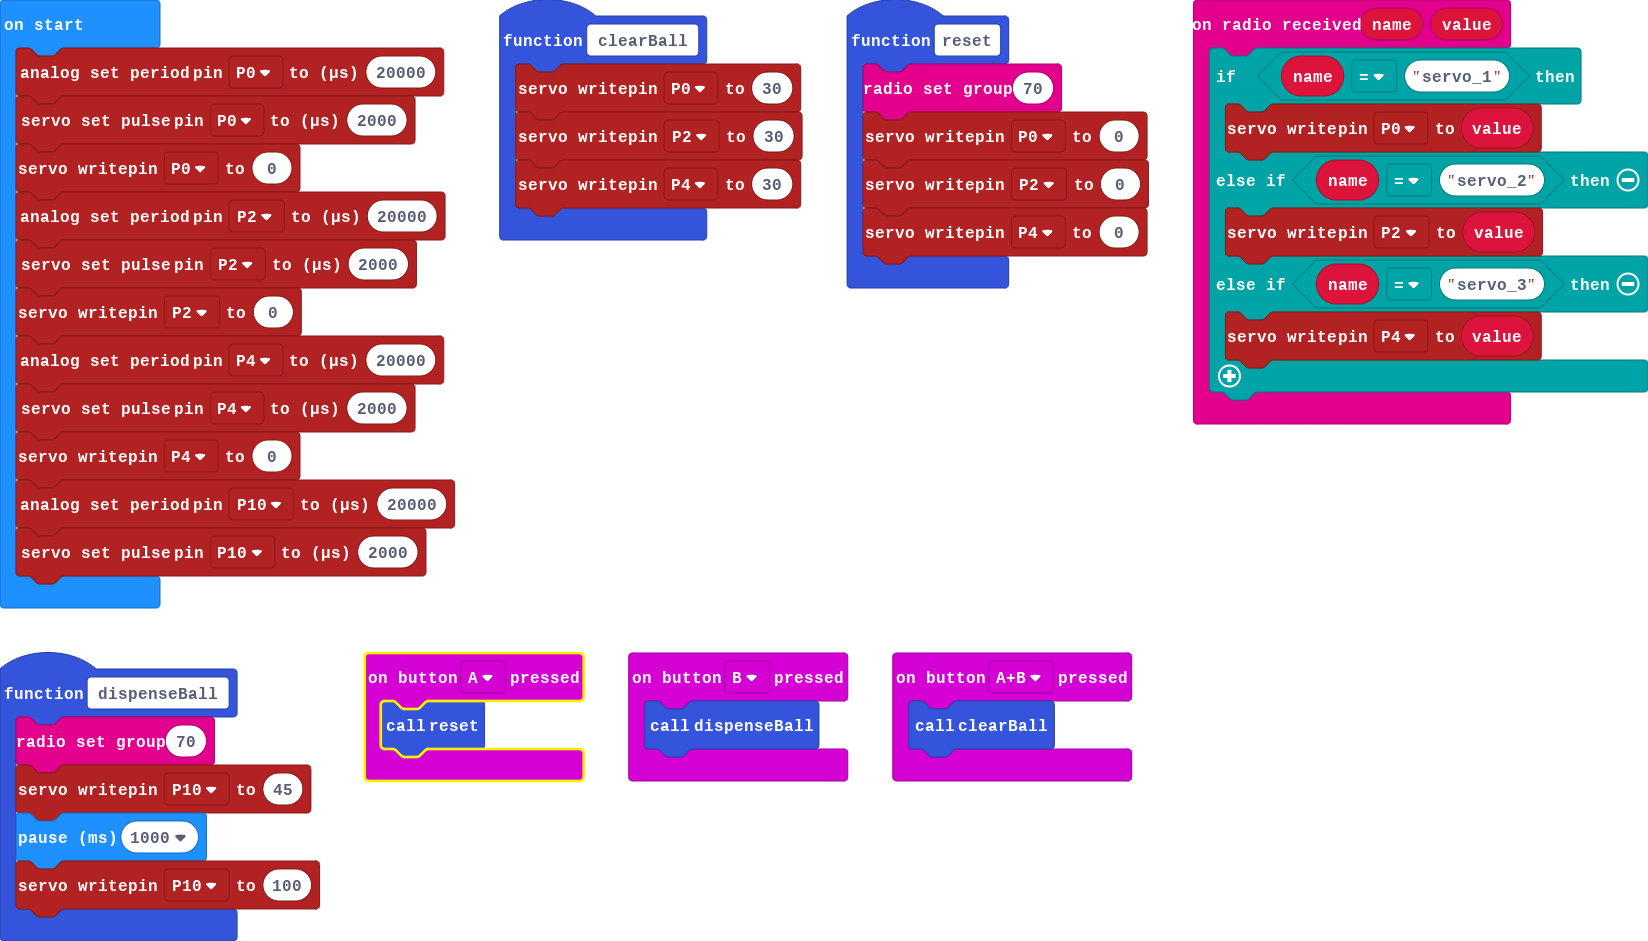
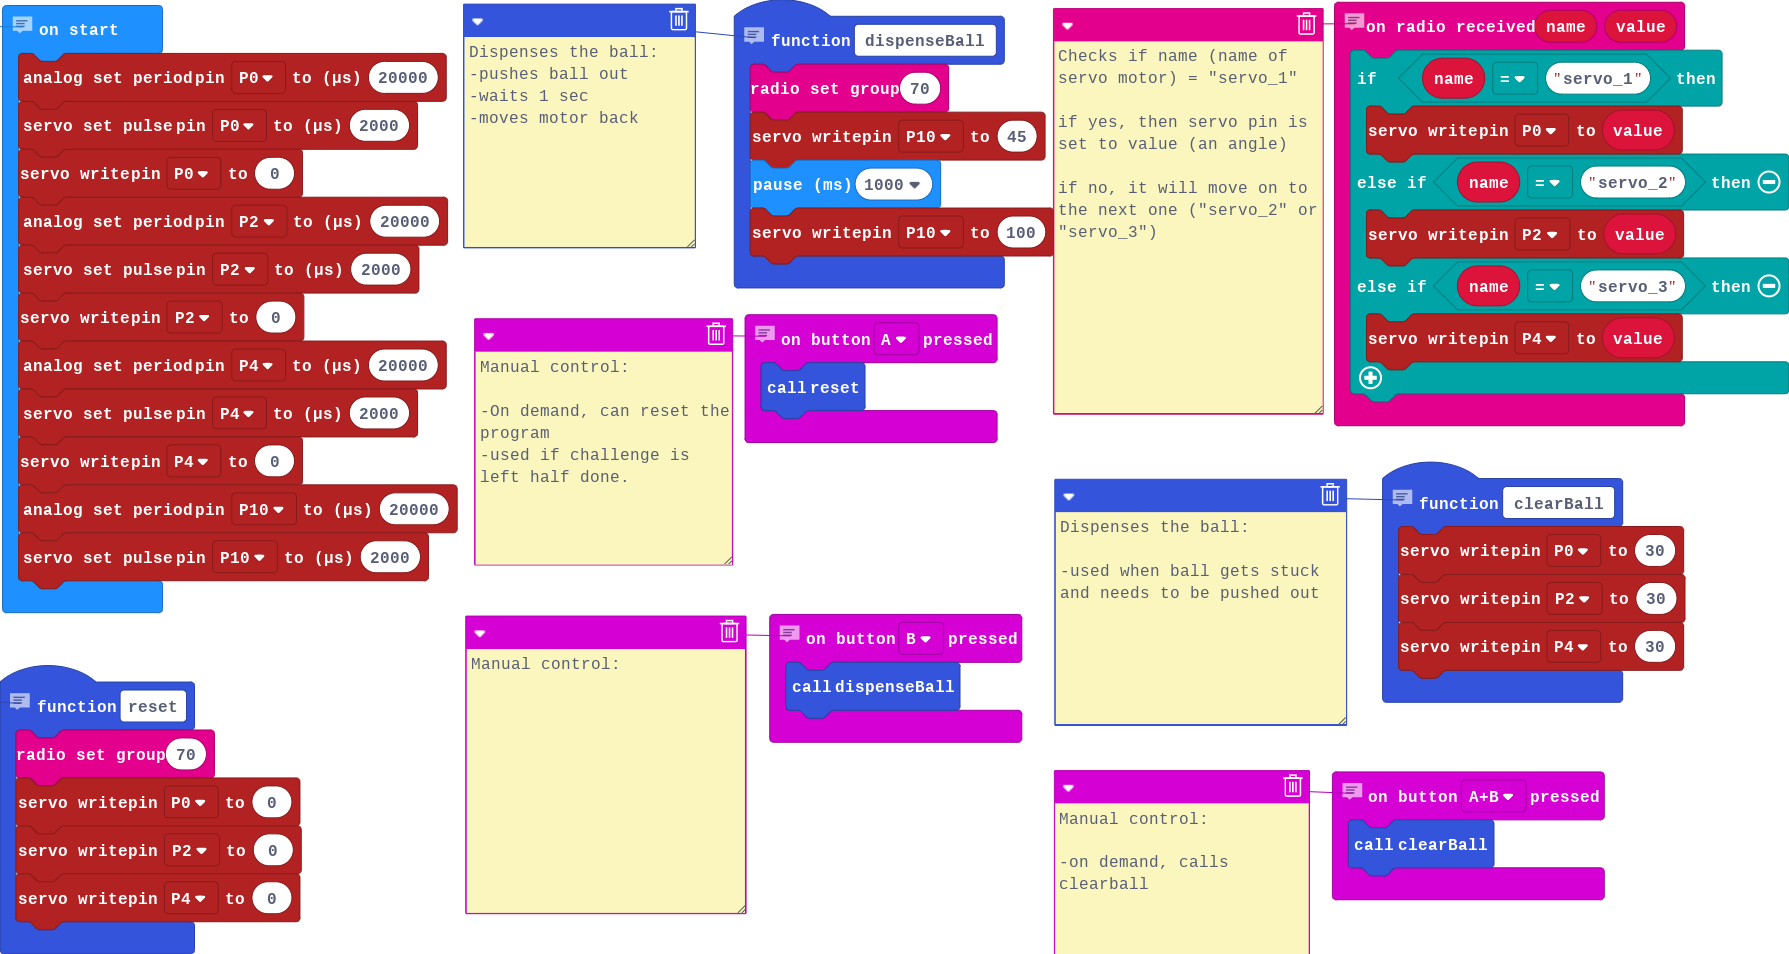
final with comments

diff --git a/main.ts b/main.ts
@@ -1,3 +1,11 @@
+// Checks if name (name of servo motor) = "servo_1"
+//
+//
+// if yes, then servo pin is set to value (an angle)
+//
+//
+// if no, it will move on to the next one ("servo_2"
+// or "servo_3")
 radio.onReceivedValue(function (name, value) {
     if (name == "servo_1") {
         pins.servoWritePin(AnalogPin.P0, value)
@@ -7,29 +15,59 @@ radio.onReceivedValue(function (name, value) {
         pins.servoWritePin(AnalogPin.P4, value)
     }
 })
-function clearBall () {
-    pins.servoWritePin(AnalogPin.P0, 30)
-    pins.servoWritePin(AnalogPin.P2, 30)
-    pins.servoWritePin(AnalogPin.P4, 30)
-}
-function reset () {
-    radio.setGroup(70)
-    pins.servoWritePin(AnalogPin.P0, 0)
-    pins.servoWritePin(AnalogPin.P2, 0)
-    pins.servoWritePin(AnalogPin.P4, 0)
-}
+// Dispenses the ball:
+//
+// -pushes ball out
+//
+// -waits 1 sec
+//
+// -moves motor back
 function dispenseBall () {
     radio.setGroup(70)
     pins.servoWritePin(AnalogPin.P10, 45)
     basic.pause(1000)
     pins.servoWritePin(AnalogPin.P10, 100)
 }
+// Manual control:
+//
+//
+// -on demand, calls clearball 
+//
 input.onButtonPressed(Button.AB, function () {
     clearBall()
 })
+// Manual control:
 input.onButtonPressed(Button.B, function () {
     dispenseBall()
 })
+// Dispenses the ball:
+//
+//
+// -used when ball gets stuck and needs to be pushed
+// out
+function clearBall () {
+    pins.servoWritePin(AnalogPin.P0, 30)
+    pins.servoWritePin(AnalogPin.P2, 30)
+    pins.servoWritePin(AnalogPin.P4, 30)
+}
+// Resets program:
+//
+//
+// -sets radio group to 70
+//
+// -resets the servo pins so it's ready for next use
+function reset () {
+    radio.setGroup(70)
+    pins.servoWritePin(AnalogPin.P0, 0)
+    pins.servoWritePin(AnalogPin.P2, 0)
+    pins.servoWritePin(AnalogPin.P4, 0)
+}
+// Manual control:
+//
+//
+// -On demand, can reset the program 
+//
+// -used if challenge is left half done.
 input.onButtonPressed(Button.A, function () {
     reset()
 })
